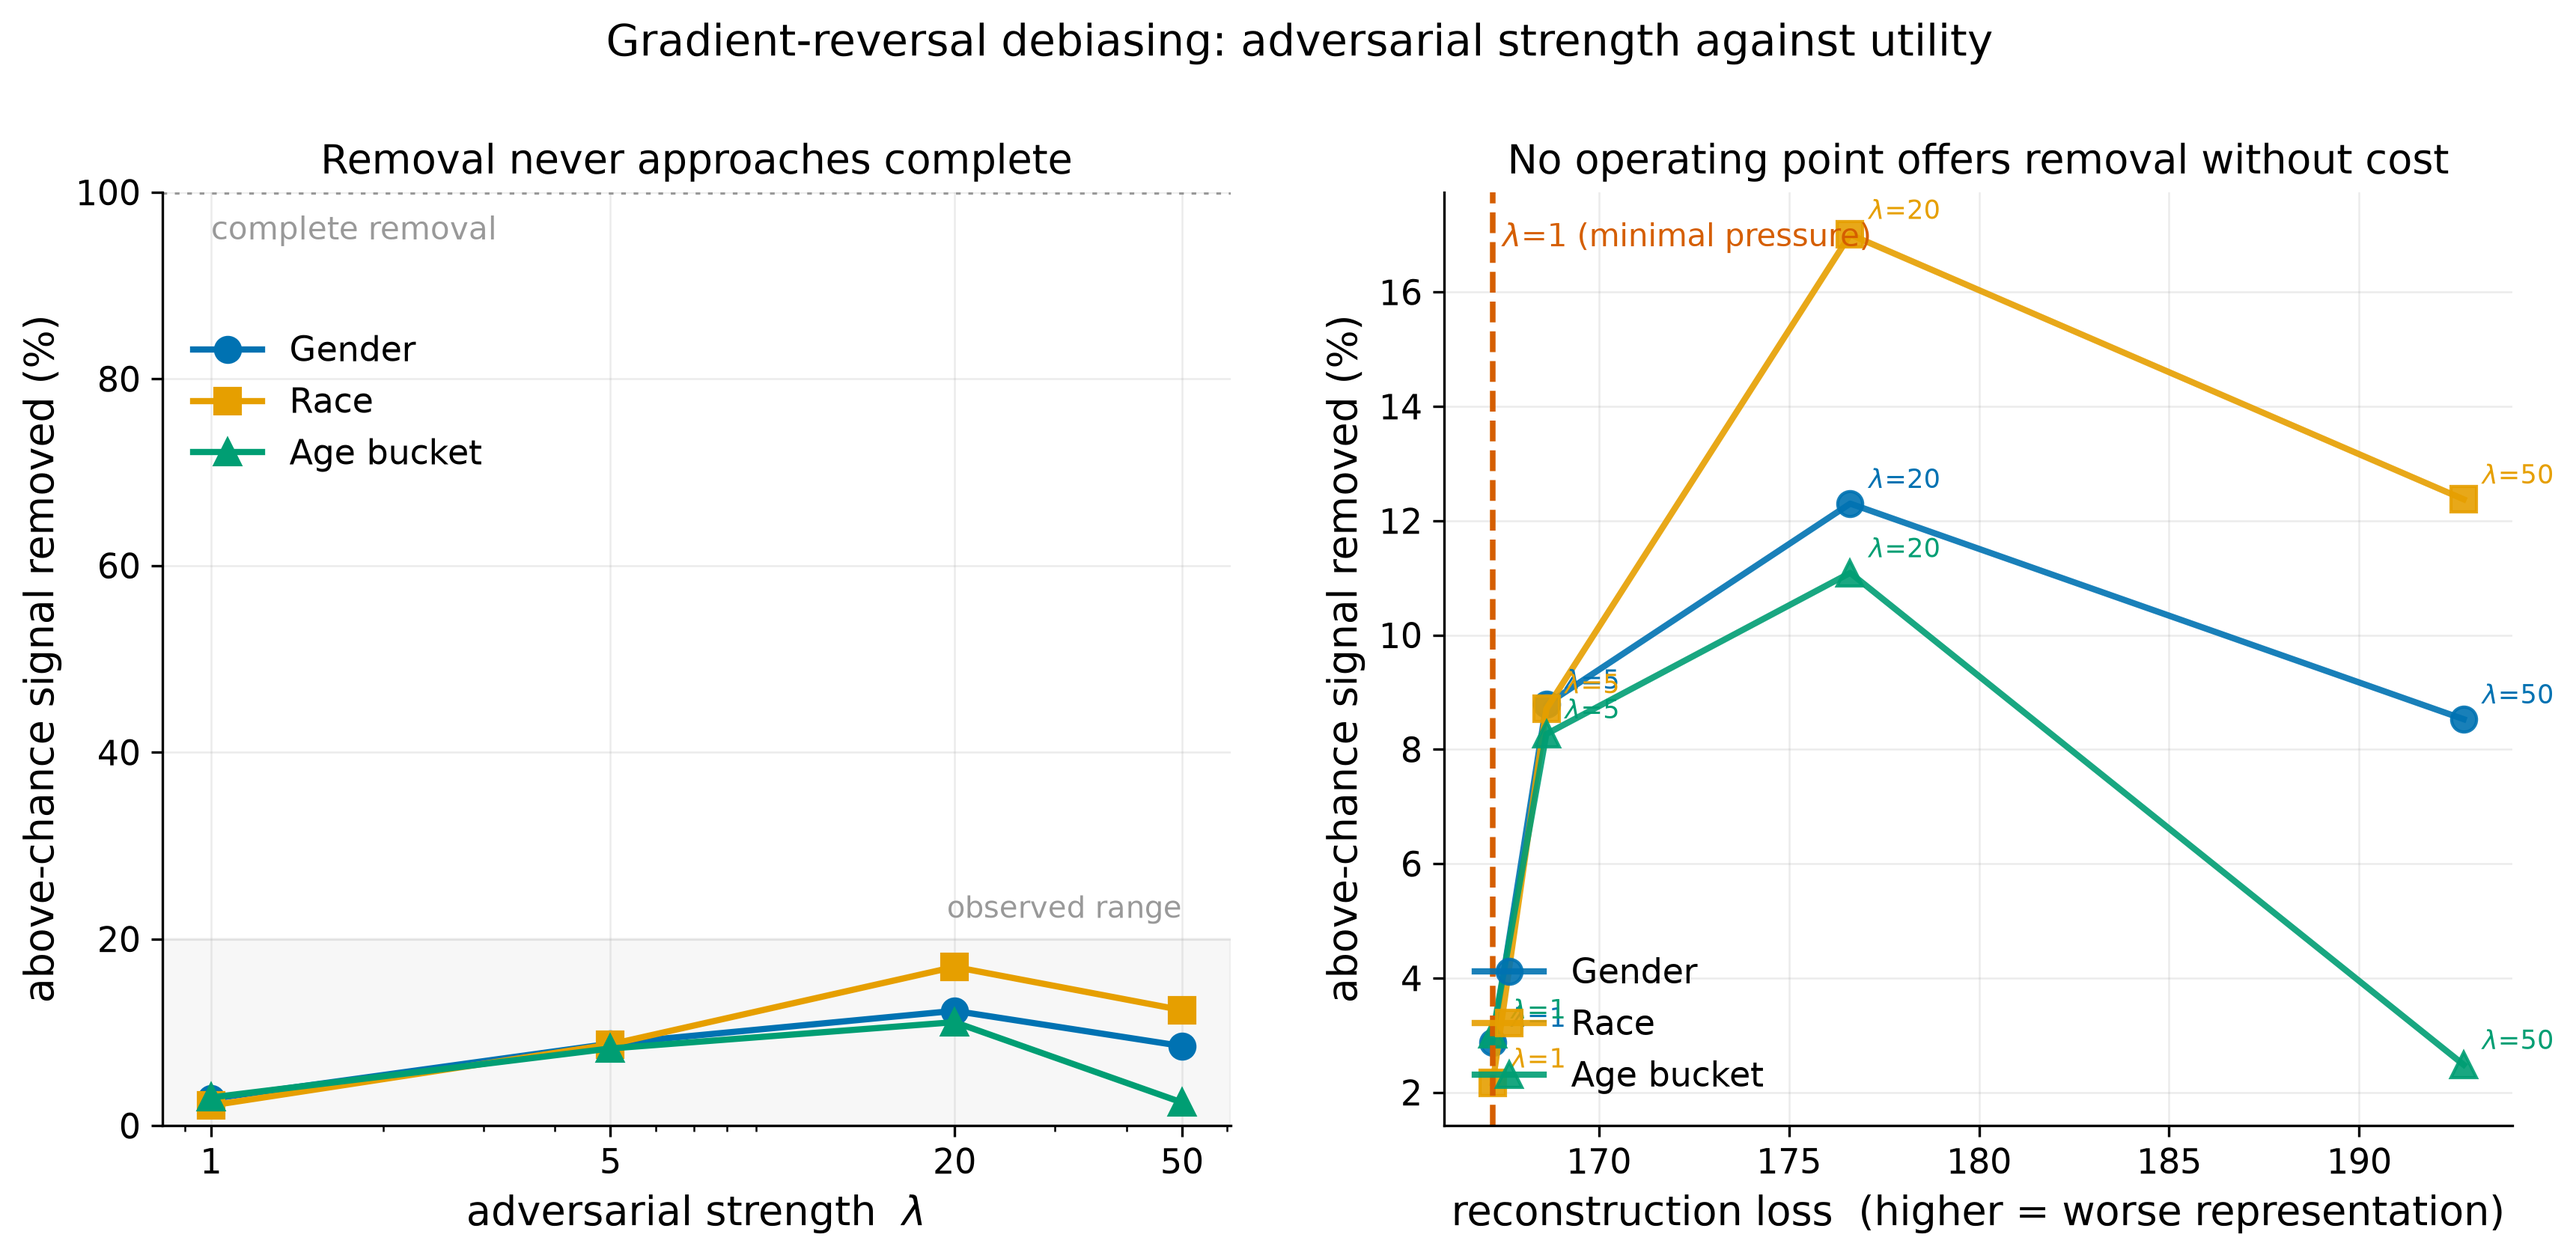
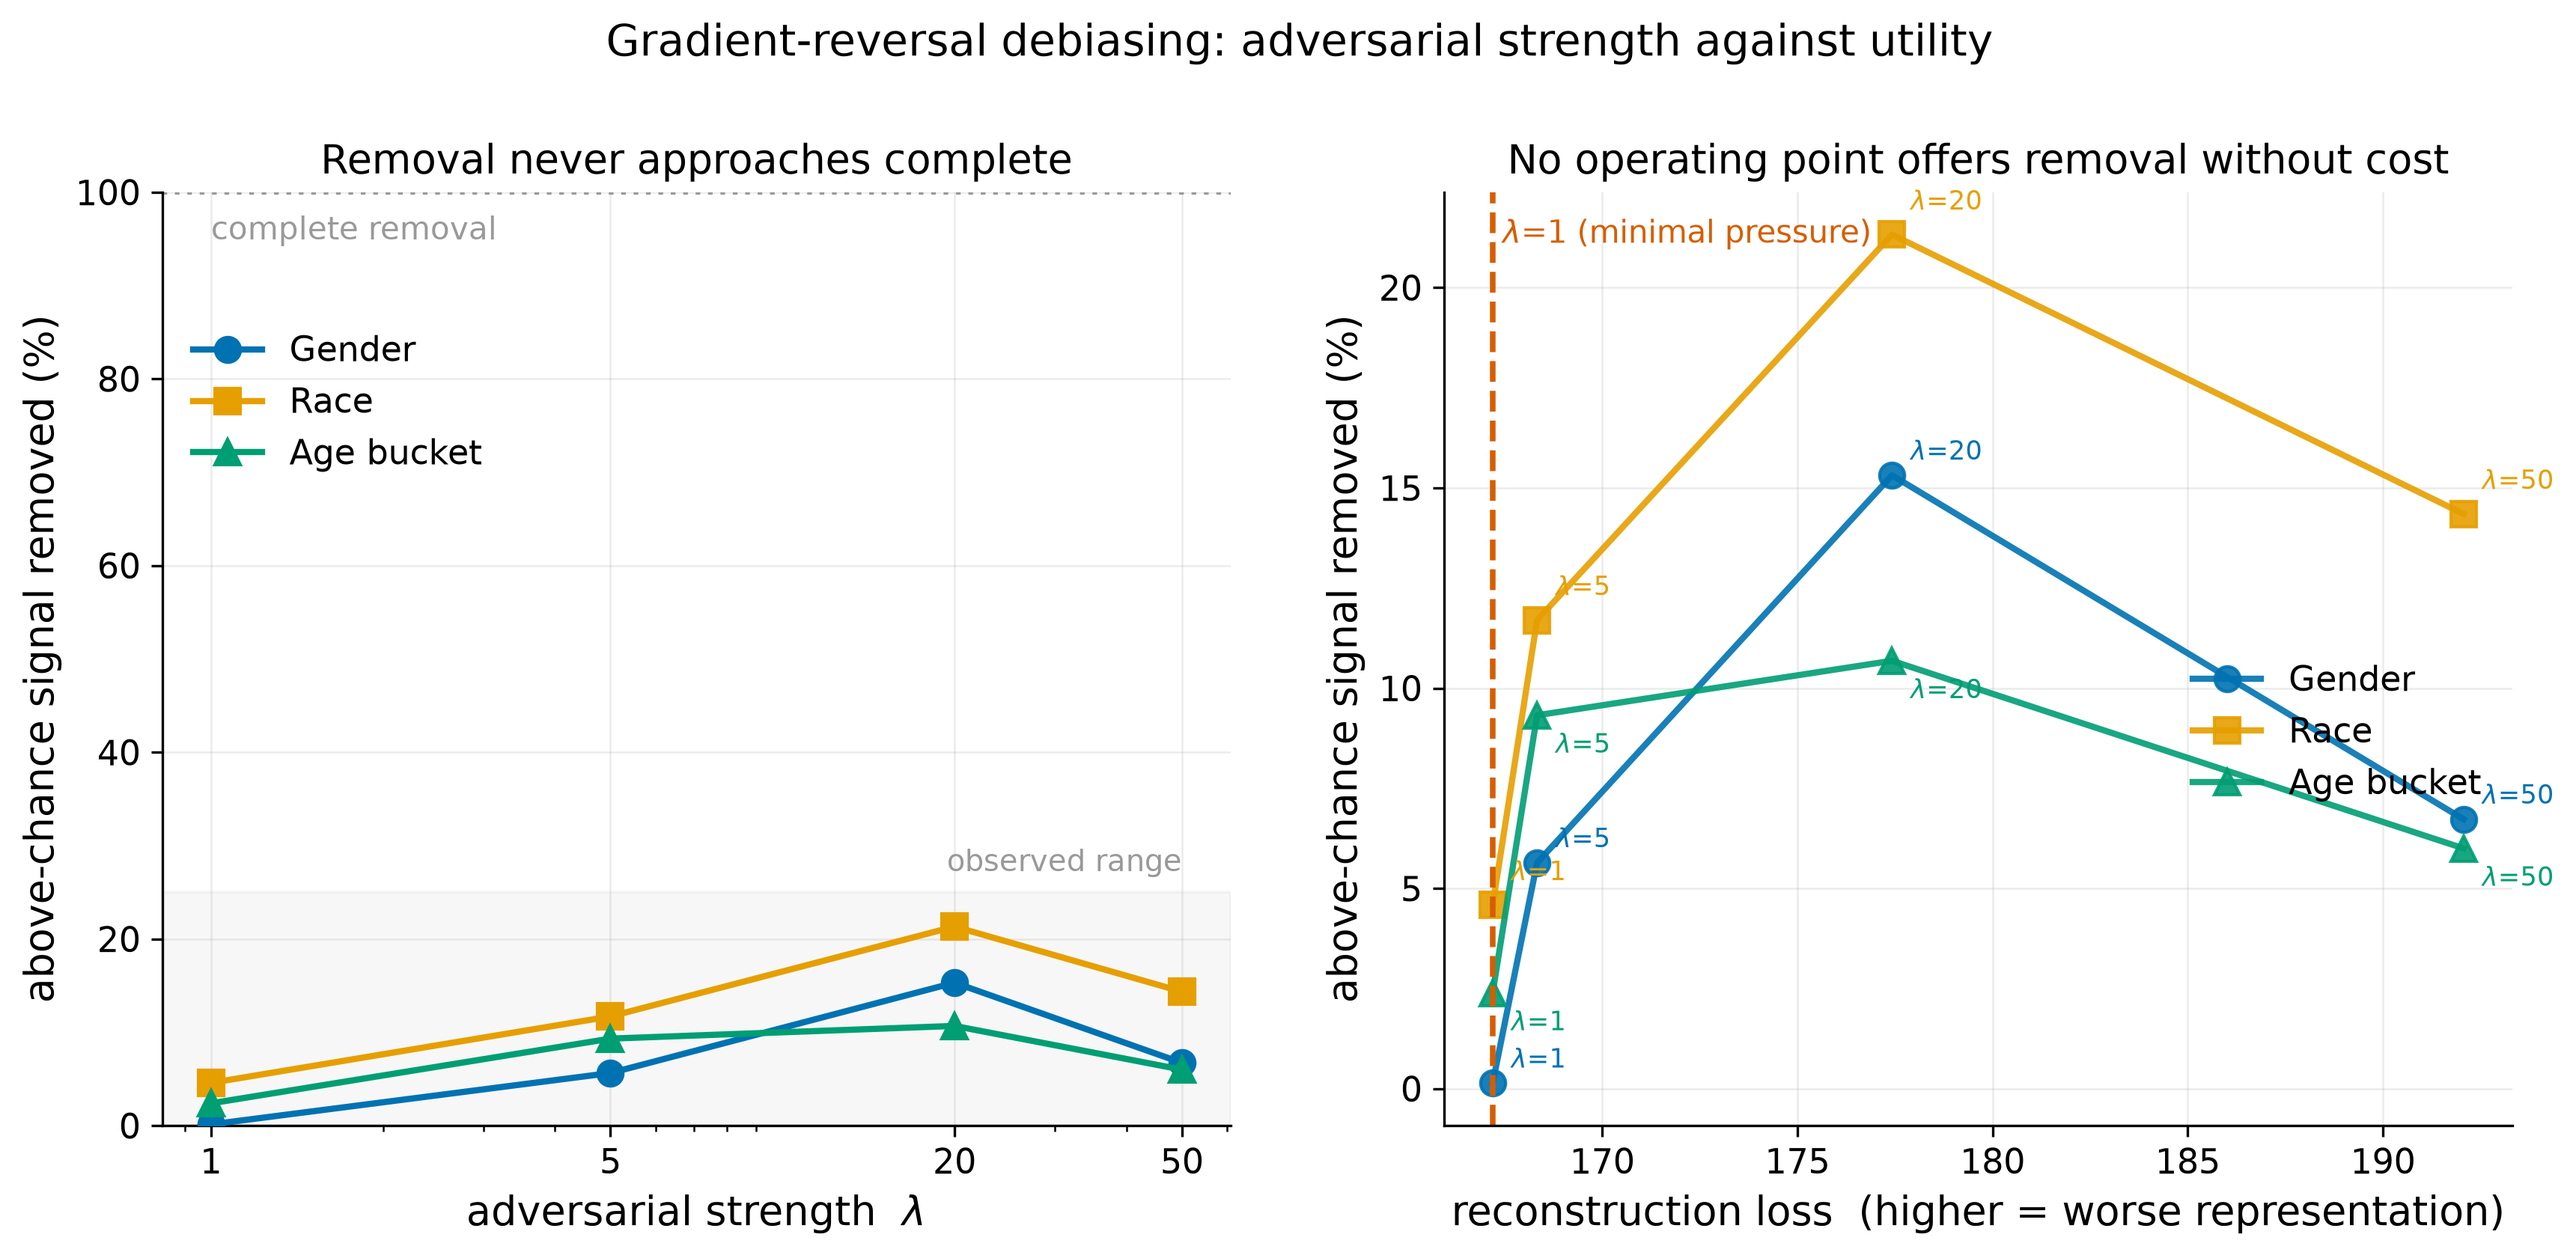
Lock fig5/fig6 to deterministic LogReg probe; de-crowd fig5 labels
Removal % was derived from the MLP probe, whose early-stopping split is not
reproducible across call sites. Recompute removal from the deterministic
LogReg before/after values so fig1, fig5 and fig6 share one metric (--metric
flag retains MLP). Peak race removal now 21.3% at lambda=20. Offset per-attribute
lambda annotations and move the right-panel legend clear of the origin cluster.

diff --git a/code/vae/tradeoff_figure.py b/code/vae/tradeoff_figure.py
@@ -37,8 +37,29 @@ plt.rcParams.update({
 })
 
 
-def load_runs(paths_by_lambda):
-    """Read each debias result file and pull out removal + final reconstruction."""
+def load_runs(paths_by_lambda, metric='LogReg'):
+    """
+    Read each debias result file and pull out removal + final reconstruction.
+
+    -------------------------------------------------------------------------
+    WHY metric='LogReg' (metric-consistency patch)
+    -------------------------------------------------------------------------
+    The stored 'pct_removed' field was computed inside debias.py from the MLP
+    probe. MLPClassifier(early_stopping=True) draws an internal validation
+    split from its random_state, so its balanced accuracy is not
+    bit-reproducible across the two call sites (probes.py for fig1 vs
+    debias.py for the baseline); the MLP 'before' therefore reads ~0.007
+    higher than fig1's MLP, and fig1's headline could not be reconciled with
+    fig5/fig6.
+
+    The linear LogReg probe is deterministic and matches fig1 to 4 decimals.
+    So we IGNORE the stored MLP-derived pct_removed and recompute removal here
+    from the LogReg before/after values that debias.py already saved for every
+    attribute. Result: fig1, fig5 and fig6 are all locked to the same
+    reproducible linear-probe metric. Pass metric='MLP' to recover the old
+    behaviour.
+    -------------------------------------------------------------------------
+    """
     runs = []
     for lam, path in sorted(paths_by_lambda.items()):
         if not os.path.exists(path):
@@ -46,13 +67,23 @@ def load_runs(paths_by_lambda):
             continue
         with open(path) as f:
             d = json.load(f)
+
+        removed = {}
+        for a in ATTR_STYLE:
+            before = d['before'][a][metric]
+            after = d['after'][a][metric]
+            chance = d['before'][a]['chance']
+            removed[a] = ((before - after) / (before - chance) * 100
+                          if before > chance else 0.0)
+
         runs.append({
             'lambda': lam,
             'recon': d['history'][-1]['recon'],
             'kl': d['history'][-1]['kl'],
-            'removed': {a: d['after'][a]['pct_removed'] for a in ATTR_STYLE},
-            'after_mlp': {a: d['after'][a]['MLP'] for a in ATTR_STYLE},
-            'before_mlp': {a: d['before'][a]['MLP'] for a in ATTR_STYLE},
+            'metric': metric,
+            'removed': removed,
+            'after_probe': {a: d['after'][a][metric] for a in ATTR_STYLE},
+            'before_probe': {a: d['before'][a][metric] for a in ATTR_STYLE},
             'chance': {a: d['before'][a]['chance'] for a in ATTR_STYLE},
         })
     return runs
@@ -90,6 +121,10 @@ def make_figure(runs, out_path, ref_recon, ref_label):
     ax1.set_axisbelow(True)
 
     # ---- right: removal vs reconstruction cost ----
+    # per-attribute label offsets so the lambda annotations don't stack where
+    # curves converge (esp. gender/age near lambda=50); race up, gender slight
+    # up, age pushed below its marker
+    offsets = {'gender': (6, 5), 'race': (6, 8), 'age_bucket': (6, -12)}
     for attr, (color, marker, label) in ATTR_STYLE.items():
         x = [r['recon'] for r in runs]
         y = [r['removed'][attr] for r in runs]
@@ -97,7 +132,7 @@ def make_figure(runs, out_path, ref_recon, ref_label):
                  linewidth=2, markersize=8, alpha=0.9)
         for xi, yi, r in zip(x, y, runs):
             ax2.annotate(f"$\\lambda$={int(r['lambda'])}", (xi, yi),
-                         textcoords='offset points', xytext=(6, 5),
+                         textcoords='offset points', xytext=offsets[attr],
                          fontsize=8.5, color=color)
 
     ax2.axvline(ref_recon, color=CB['red'], linestyle='--', linewidth=1.8)
@@ -108,7 +143,9 @@ def make_figure(runs, out_path, ref_recon, ref_label):
     ax2.set_xlabel('reconstruction loss  (higher = worse representation)')
     ax2.set_ylabel('above-chance signal removed (%)')
     ax2.set_title('No operating point offers removal without cost')
-    ax2.legend(frameon=False, loc='lower left')
+    # origin cluster (lower-left) and the race peak (upper area) are both busy;
+    # the empty band is mid-right, below the race descent
+    ax2.legend(frameon=False, loc='center right', bbox_to_anchor=(1.0, 0.42))
     ax2.grid(alpha=0.25, linewidth=0.6)
     ax2.set_axisbelow(True)
 
@@ -127,7 +164,7 @@ def make_residual_figure(runs, out_path):
     x = np.arange(len(lams))
 
     for i, (attr, (color, _, label)) in enumerate(ATTR_STYLE.items()):
-        vals = [r['after_mlp'][attr] for r in runs]
+        vals = [r['after_probe'][attr] for r in runs]
         bars = ax.bar(x + (i - 1) * width, vals, width,
                       color=color, label=label)
         chance = runs[0]['chance'][attr]
@@ -140,7 +177,7 @@ def make_residual_figure(runs, out_path):
 
     # baseline (before any debiasing) spans
     for i, (attr, (color, _, _)) in enumerate(ATTR_STYLE.items()):
-        b0 = runs[0]['before_mlp'][attr]
+        b0 = runs[0]['before_probe'][attr]
         ax.hlines(b0, x[0] + (i - 1) * width - width / 2,
                   x[-1] + (i - 1) * width + width / 2,
                   colors=color, linestyles='--', linewidth=1.4, alpha=0.7)
@@ -170,6 +207,10 @@ def main():
                         'shares the same number of extra training epochs.')
     p.add_argument('--ref_recon', type=float, default=None,
                    help='Override the reference reconstruction loss directly.')
+    p.add_argument('--metric', choices=['LogReg', 'MLP'], default='LogReg',
+                   help='Probe whose balanced accuracy defines removal. '
+                        'LogReg is deterministic and matches fig1 exactly; '
+                        'MLP reproduces the earlier (non-reproducible) figures.')
     args = p.parse_args()
 
     paths = {
@@ -179,10 +220,12 @@ def main():
         50: os.path.join(args.results_dir, 'debias_lam50.json'),
     }
 
-    runs = load_runs(paths)
+    runs = load_runs(paths, metric=args.metric)
     if len(runs) < 2:
         print("need at least two runs")
         return
+    print(f"Removal metric: {args.metric} balanced accuracy "
+          f"({'deterministic, matches fig1' if args.metric == 'LogReg' else 'MLP, not reproducible'})")
 
     # anchor utility cost to the weakest adversarial run unless overridden
     if args.ref_recon is not None:
